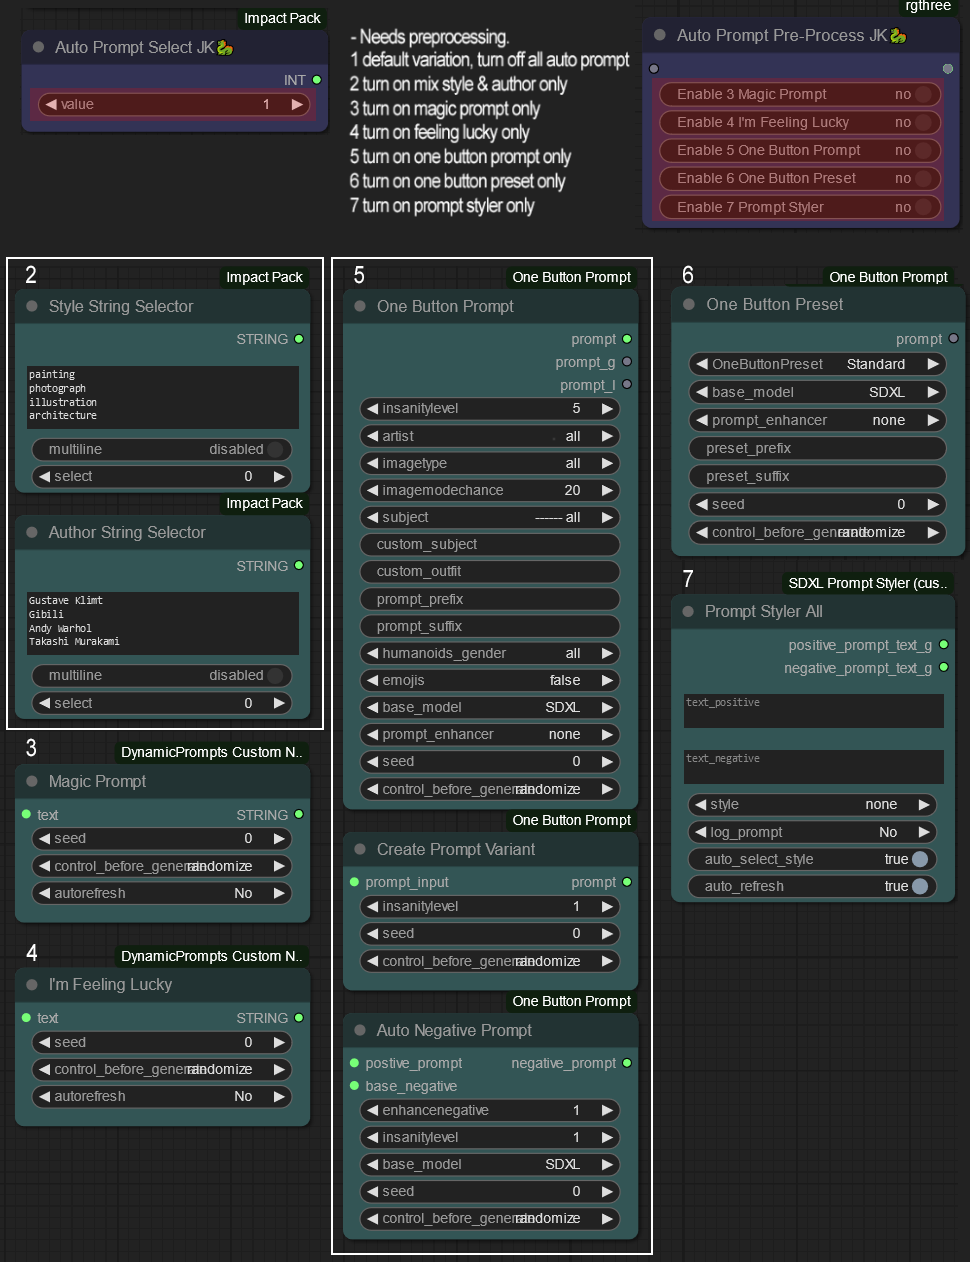
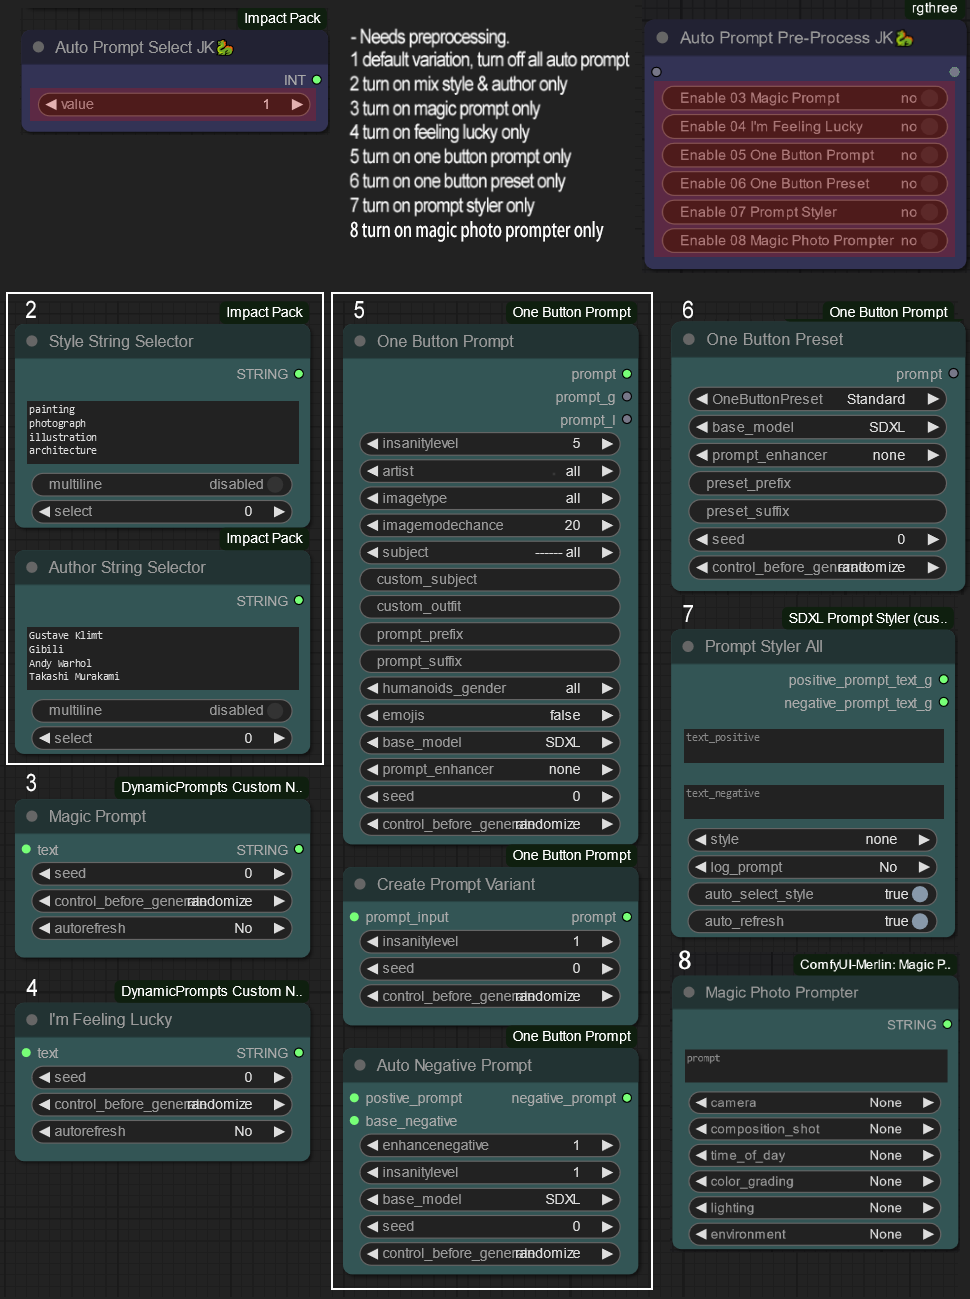
v1.2.7
Magic Photo Prompter added.

diff --git a/README.md b/README.md
@@ -89,6 +89,7 @@ If you like what I share, please support me with [PayPal](https://paypal.me/jake
 - [One Button Prompt](https://github.com/AIrjen/OneButtonPrompt)
 - [Portrait Master](https://github.com/florestefano1975/comfyui-portrait-master)
 - [Flux Prompt Generator](https://github.com/fairy-root/Flux-Prompt-Generator)
+- [Merlin Magic Photo Prompter](https://github.com/Xclbr7/ComfyUI-Merlin)
 - [WD14 Tagger](https://github.com/pythongosssss/ComfyUI-WD14-Tagger)
 - [VLM Nodes](https://github.com/gokayfem/ComfyUI_VLM_nodes)
 - [IF AI Tools](https://github.com/if-ai/ComfyUI-IF_AI_tools)
@@ -484,4 +485,5 @@ If you like what I share, please support me with [PayPal](https://paypal.me/jake
 						Clip l & g switch added.
 						Negative g switch added.
 						SDXL Clip Text Encode Target Resolution Scale added.
-- 2024-09-10 - v1.2.6	detailer: add detail lora
+- 2024-09-10 - v1.2.6	detailer: add detail lora.
+- 2024-09-11 - v1.2.7	Magic Photo Prompter added.
